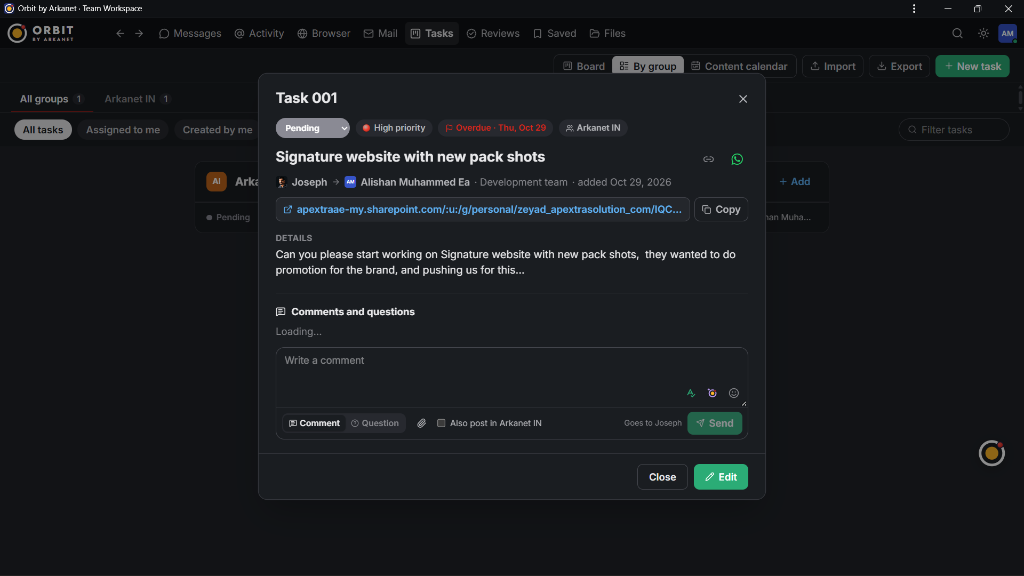
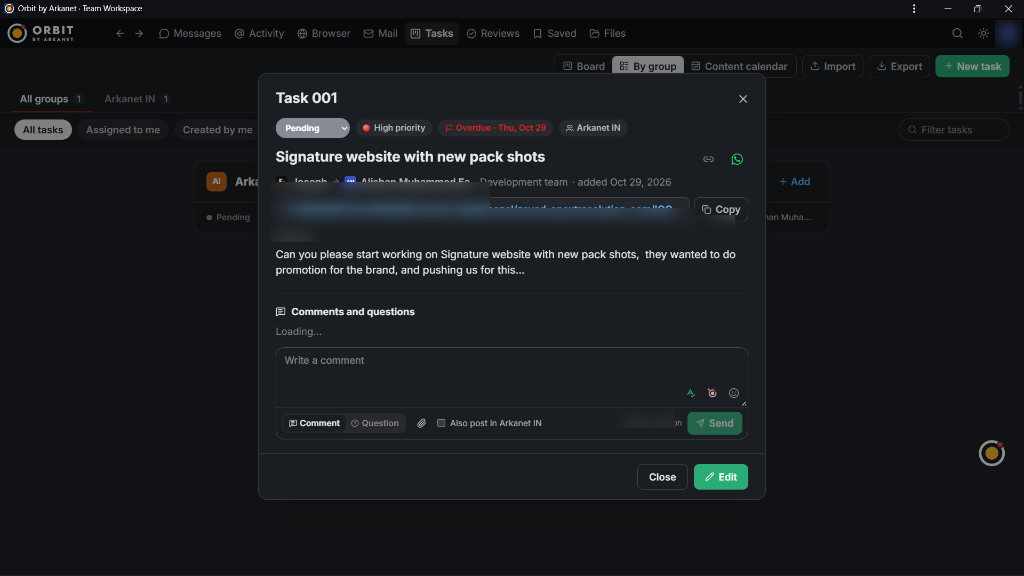
feat(products): remove developer pod info and blur personal details from screenshots

diff --git a/src/lib/productsData.ts b/src/lib/productsData.ts
@@ -15,7 +15,7 @@ export interface ProductItem {
   description: string;
   rating: number;
   reviewsCount: string;
-  developer: {
+  developer?: {
     name: string;
     avatar: string;
   };
@@ -55,13 +55,11 @@ export const PRODUCTS_DATA: ProductItem[] = [
       avatar: "https://images.unsplash.com/photo-1534528741775-53994a69daeb?q=80&w=200&auto=format&fit=crop",
     },
     logo: "/assets/images/prostack-logo-navy.png",
-    previewImage: "/assets/images/products/prostack-1-landing.jpg",
+    previewImage: "/assets/images/prostack-preview-hd.jpg",
     screenshots: [
-      "/assets/images/products/prostack-1-landing.jpg",
-      "/assets/images/products/prostack-2-dashboard.png",
-      "/assets/images/products/prostack-3-add-site.png",
-      "/assets/images/products/prostack-4-theme-setup.png",
-      "/assets/images/products/prostack-5-billing.png",
+      "/assets/images/prostack-hd.png",
+      "/assets/images/prostack-preview-hd.jpg",
+      "/assets/images/prostack-showcase-banner.jpg",
     ],
     features: [
       "Liquid OS 2.0 theme engine with modular drag-and-drop page assembly",
@@ -99,15 +97,13 @@ export const PRODUCTS_DATA: ProductItem[] = [
       avatar: "https://images.unsplash.com/photo-1507003211169-0a1dd7228f2d?q=80&w=200&auto=format&fit=crop",
     },
     logo: "/assets/images/arkanet-icon-clean.png",
-    previewImage: "/assets/images/products/orbit-1-dashboard.png",
+    previewImage: "/assets/images/orbit-preview-hd.jpg",
     screenshots: [
-      "/assets/images/products/orbit-1-dashboard.png",
-      "/assets/images/products/orbit-2-tasks.png",
-      "/assets/images/products/orbit-3-task-detail.png",
-      "/assets/images/products/orbit-4-messages.png",
-      "/assets/images/products/orbit-5-mail.png",
-      "/assets/images/products/orbit-6-reviews.png",
-      "/assets/images/products/orbit-7-analytics.png",
+      "/assets/images/orbit-hd.png",
+      "/assets/images/orbit-preview-hd.jpg",
+      "/assets/images/orbit-showcase-banner.jpg",
+      "/assets/images/orbit-tasks-banner.jpg",
+      "/assets/images/orbit-dashboard-mockup.jpg",
     ],
     features: [
       "Real-time team messaging channels, direct messages & threaded discussions",

diff --git a/src/components/products/ProductsCatalog.tsx b/src/components/products/ProductsCatalog.tsx
@@ -218,18 +218,6 @@ export const ProductsCatalog: React.FC = () => {
                     <p className="font-sans text-xs text-slate-500 line-clamp-2 leading-relaxed">
                       {product.description}
                     </p>
-
-                    {/* Developer / Verified Pod */}
-                    <div className="flex items-center gap-2 pt-2 border-t border-slate-100">
-                      <img
-                        src={product.developer.avatar}
-                        alt={product.developer.name}
-                        className="w-5 h-5 rounded-[4px] object-cover shrink-0 border border-slate-200"
-                      />
-                      <span className="text-[11px] font-medium text-slate-600 truncate">
-                        {product.developer.name}
-                      </span>
-                    </div>
                   </div>
 
                   {/* Single Clean "View details" Action Button */}

diff --git a/src/components/products/ProductDetailModal.tsx b/src/components/products/ProductDetailModal.tsx
@@ -109,9 +109,7 @@ export const ProductDetailModal: React.FC<ProductDetailModalProps> = ({
                   </span>
                 </div>
                 <div className="flex items-center gap-1.5 sm:gap-2 pt-0.5 text-[11px] sm:text-xs text-slate-500 truncate">
-                  <span className="font-semibold text-slate-700 truncate">{product.developer.name}</span>
-                  <span>•</span>
-                  <span>{product.category}</span>
+                  <span className="font-semibold text-slate-700 truncate">{product.category}</span>
                   <span>•</span>
                   <div className="flex items-center text-amber-500 font-bold shrink-0">
                     <Star className="w-3 sm:w-3.5 h-3 sm:h-3.5 fill-amber-400 stroke-amber-400 mr-0.5" />
